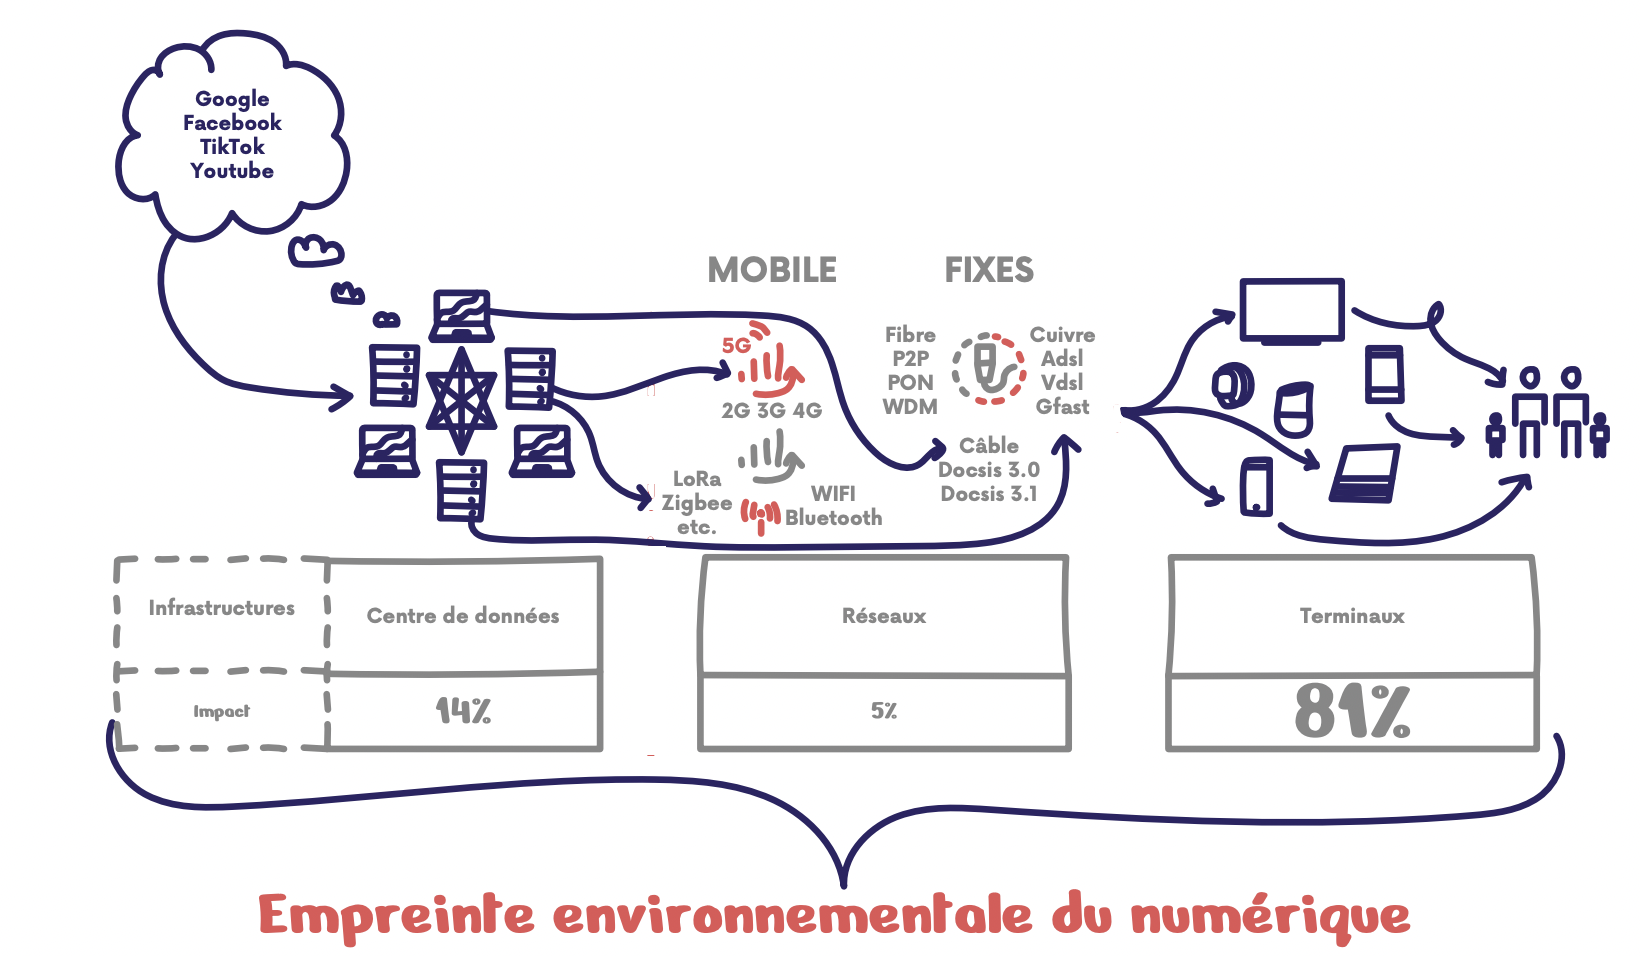
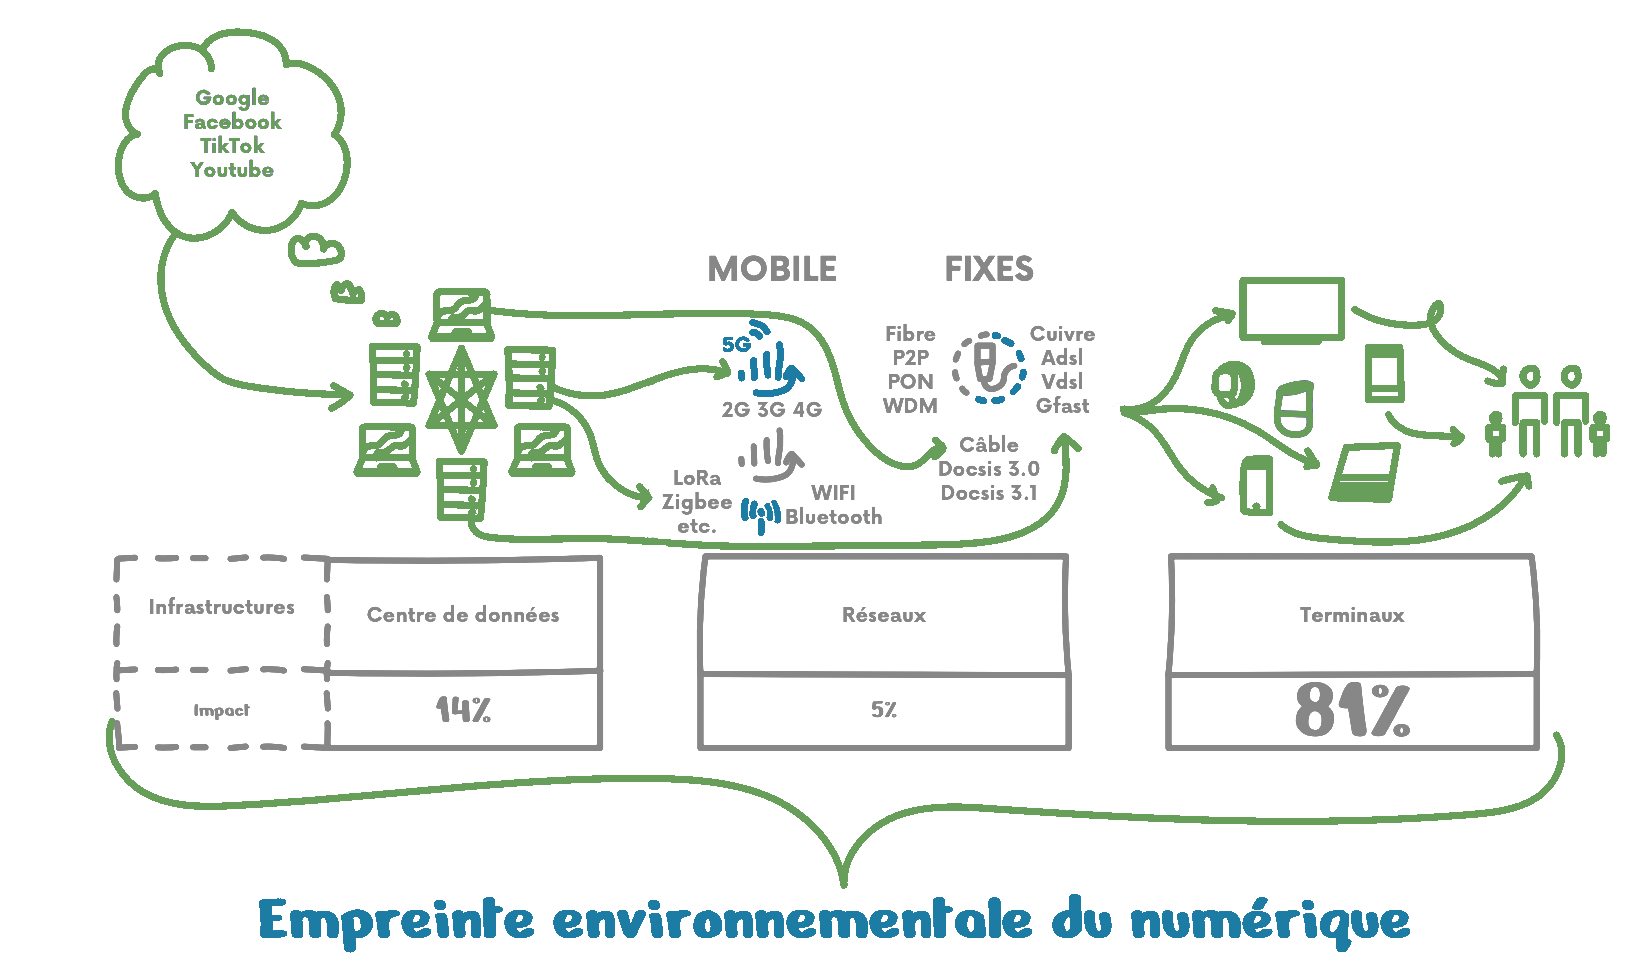
feat: Added images on section

diff --git a/SEQUOIA Foundation/nav/identifier.html b/SEQUOIA Foundation/nav/identifier.html
@@ -55,9 +55,9 @@
         </div>
         <div class="content">
             <p>L'infographie ci-dessous montre la division du bilan carbone mondial du numérique. On remarque que la plus grande partie de l’empreinte provient des équipements - smartphones, ordinateurs, écrans - utilisés par les consommateurs.</p>
-            <img src="" alt="Images">
+            <img class="content_img" src="../ressources/imgtemp/img2.png" alt="Images">
             <p>En France, la part des émissions associées aux terminaux est encore plus importante, avec plus de 80% de l’empreinte environnementale du numérique engendré par eux !</p>
-            <img src="" alt="Images">
+            <img class="content_img" src="../ressources/imgtemp/img3.png" alt="Images">
             <p>Il est important de bien connaître les ordres de grandeur afin de comprendre les déterminants de l’empreinte du numérique, et donc savoir quoi changer pour la réduire.</p>
         </div>
         <div class="content">

diff --git a/SEQUOIA Foundation/style.css b/SEQUOIA Foundation/style.css
@@ -253,9 +253,15 @@ main p {
 }
 main .content {
     padding-top: 3%;
+    text-align: center;
 }
 main .content:last-child, .apropos:last-child{
     margin-bottom: 5%;
+}
+
+.content_img{
+    max-width: 900px;
+    margin: 40px auto;
 }
 
 .mainlogo {
